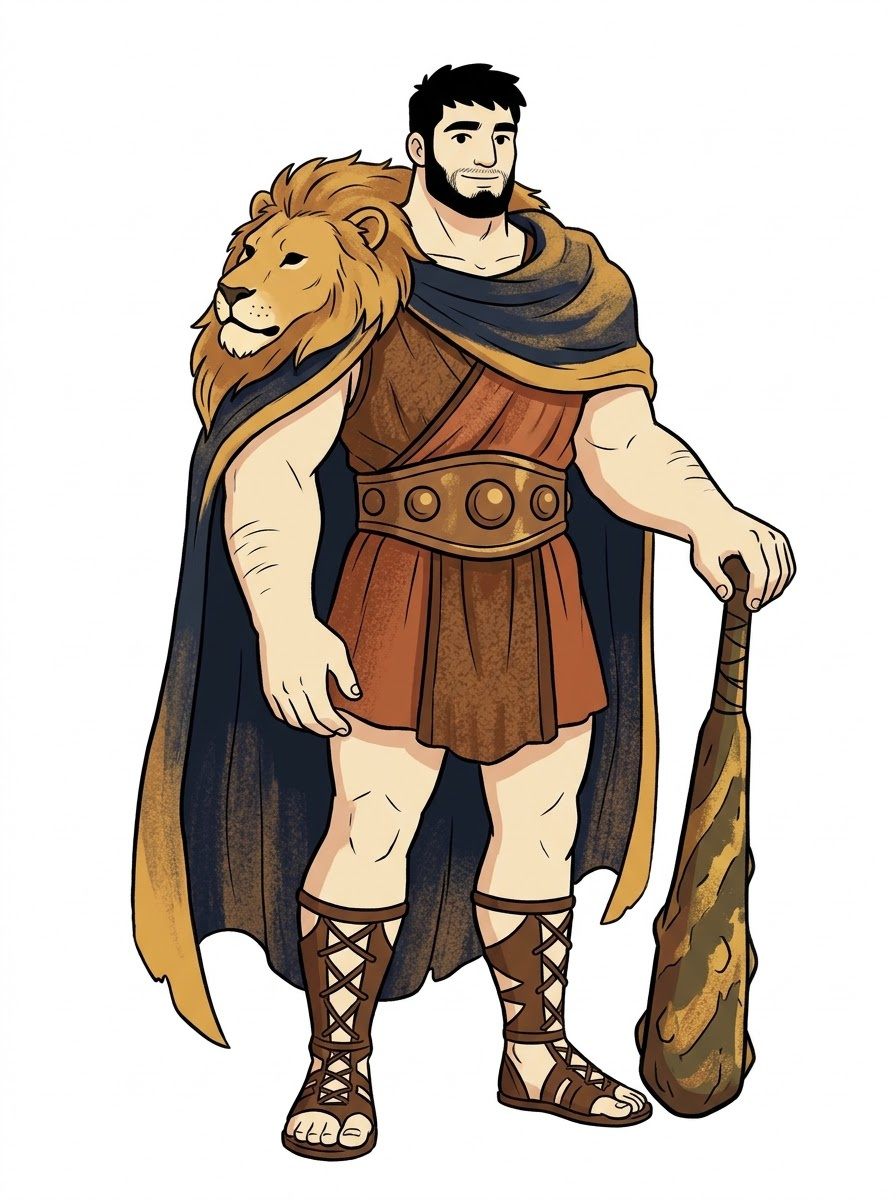
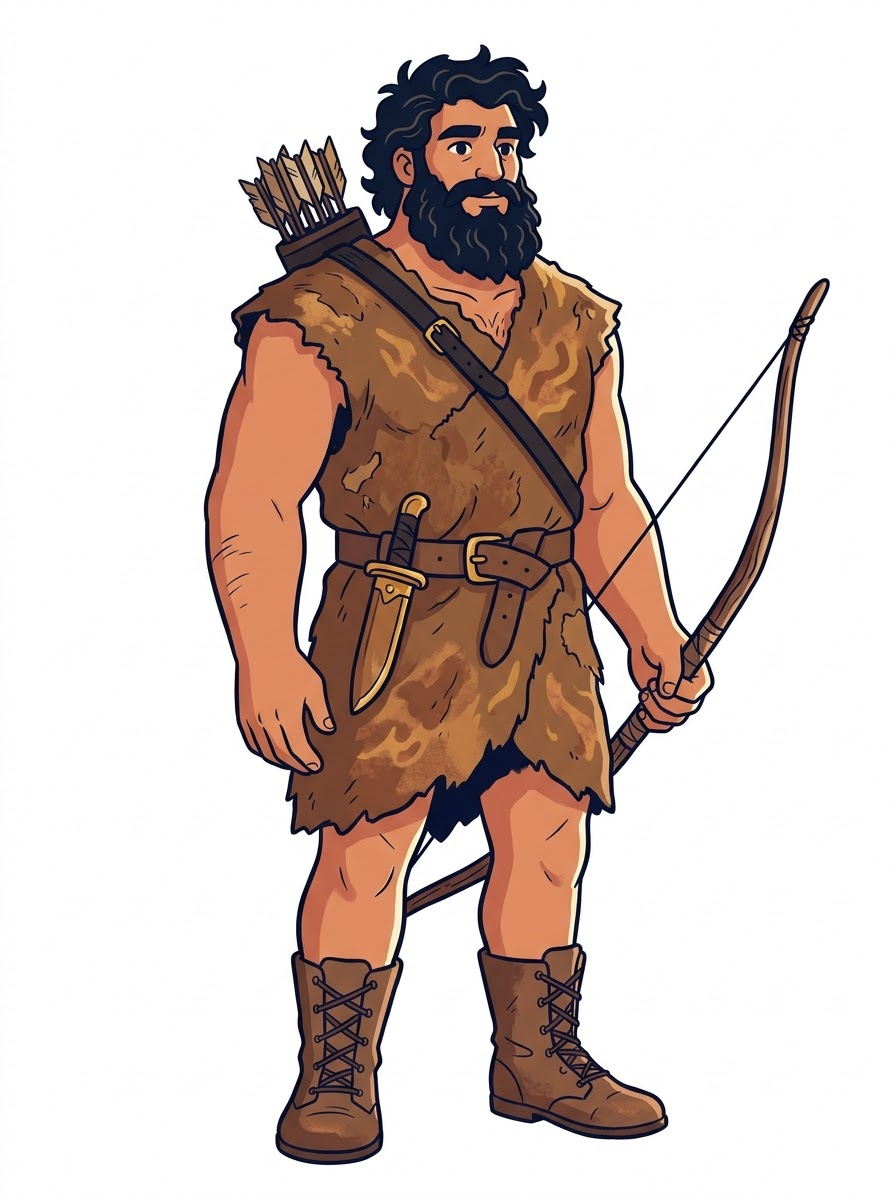
Astrolas Myths: Orion vẽ lại thành thợ săn cầm cung (bản cũ khoác da sư tử + chùy, lẫn với Heracles); chòm sao vắt qua RA 0°/360° (Song Ngư) nối vòng toạ độ

diff --git a/apps/xuong-video/scripts/shot-code/la-so.html b/apps/xuong-video/scripts/shot-code/la-so.html
@@ -179,7 +179,8 @@ function veDiem(ds) {
 // CHÒM SAO: nét thật (d3-celestial, toạ độ RA / Dec độ) chiếu phẳng vào giữa khung — RA tăng sang TRÁI (như nhìn trời), nét vẽ dần, sao sáng nhấp nháy
 function veChom(ten) {
   const sd = C._sao, TEN_CHOM = { Scorpio: 'Scorpius', Capricorn: 'Capricornus' }, i = sd.ten.findIndex((x) => x[0] === (TEN_CHOM[ten] ?? ten)); if (i < 0) throw new Error('không có chòm ' + ten);   // tên cung → tên chòm IAU
-  const ds = sd.duong[i], pts = ds.flat(), ra0 = pts.reduce((a, p) => a + p[0], 0) / pts.length, de0 = pts.reduce((a, p) => a + p[1], 0) / pts.length;
+  // chòm vắt qua RA 0° / 360° (Song Ngư): nối vòng toạ độ quanh sao đầu, không thì nét kéo ngang cả bầu trời
+  const ref = sd.duong[i][0][0][0], ds = sd.duong[i].map((l) => l.map((p) => [ref + ((p[0] - ref + 540) % 360) - 180, p[1]])), pts = ds.flat(), ra0 = pts.reduce((a, p) => a + p[0], 0) / pts.length, de0 = pts.reduce((a, p) => a + p[1], 0) / pts.length;
   const xy = (p) => [-(p[0] - ra0) * Math.cos((de0 * Math.PI) / 180), p[1] - de0], q = pts.map(xy);
   const rx = Math.max(...q.map((p) => Math.abs(p[0]))), ry = Math.max(...q.map((p) => Math.abs(p[1]))), k = Math.min((W * 0.36) / rx, (H * 0.2) / ry);
   const cx = W > H ? 540 : W / 2, cy = W > H ? H / 2 : H * 0.36, P = (p) => { const [a, b] = xy(p); return [cx + a * k, cy - b * k]; };
